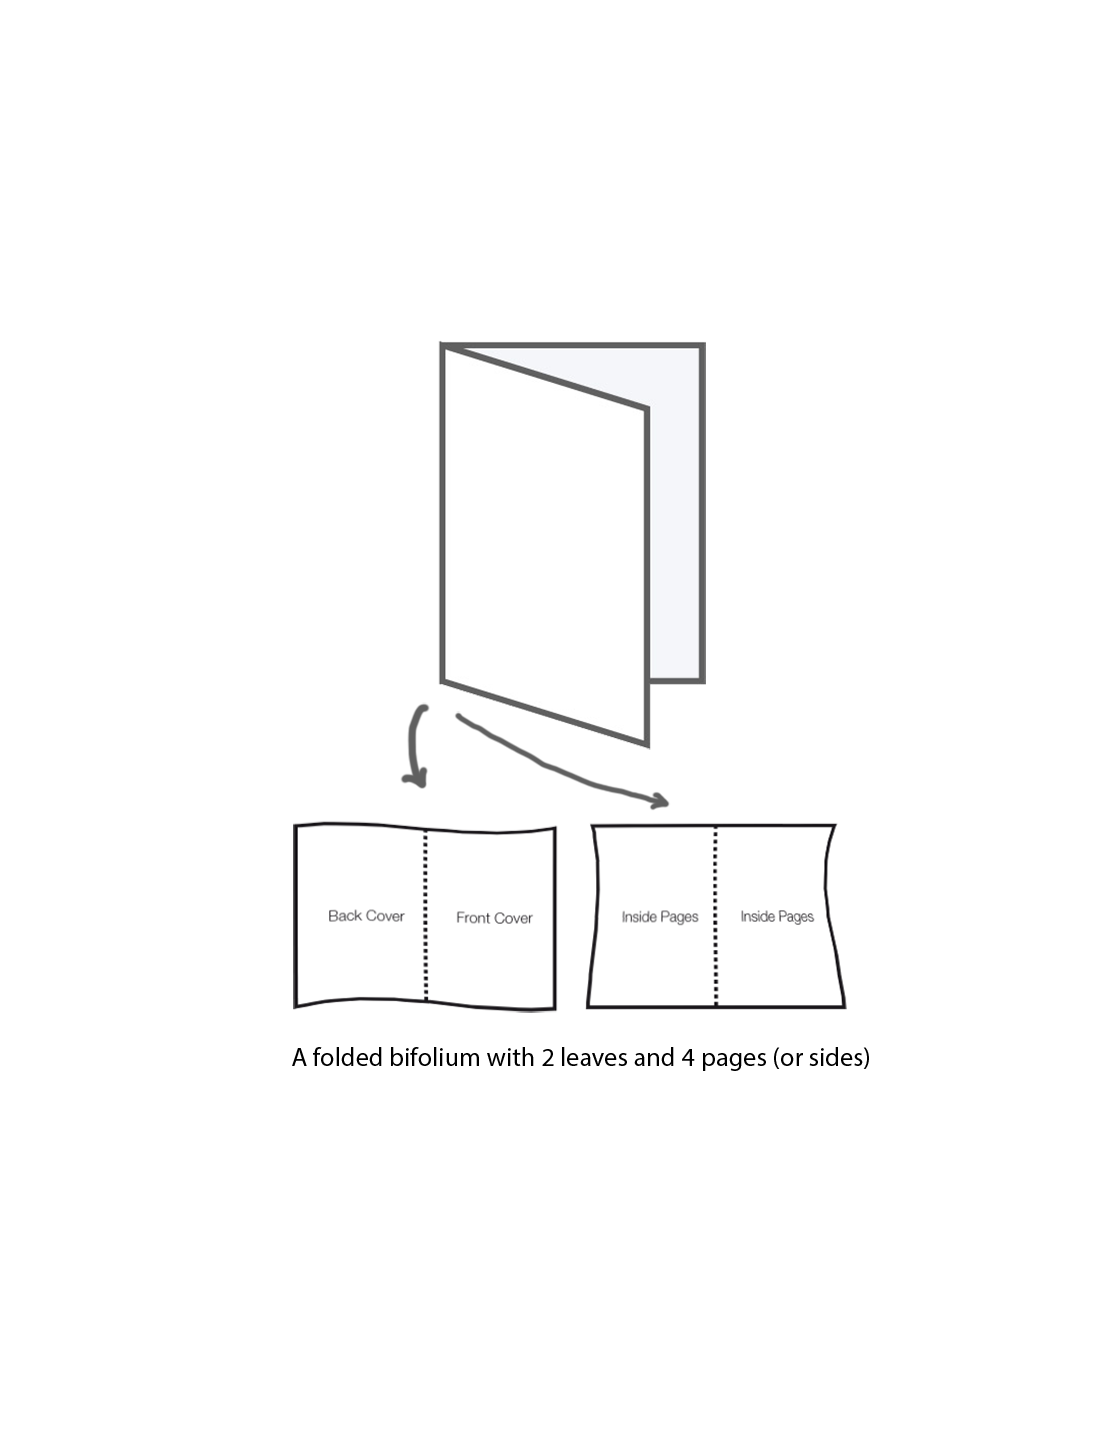
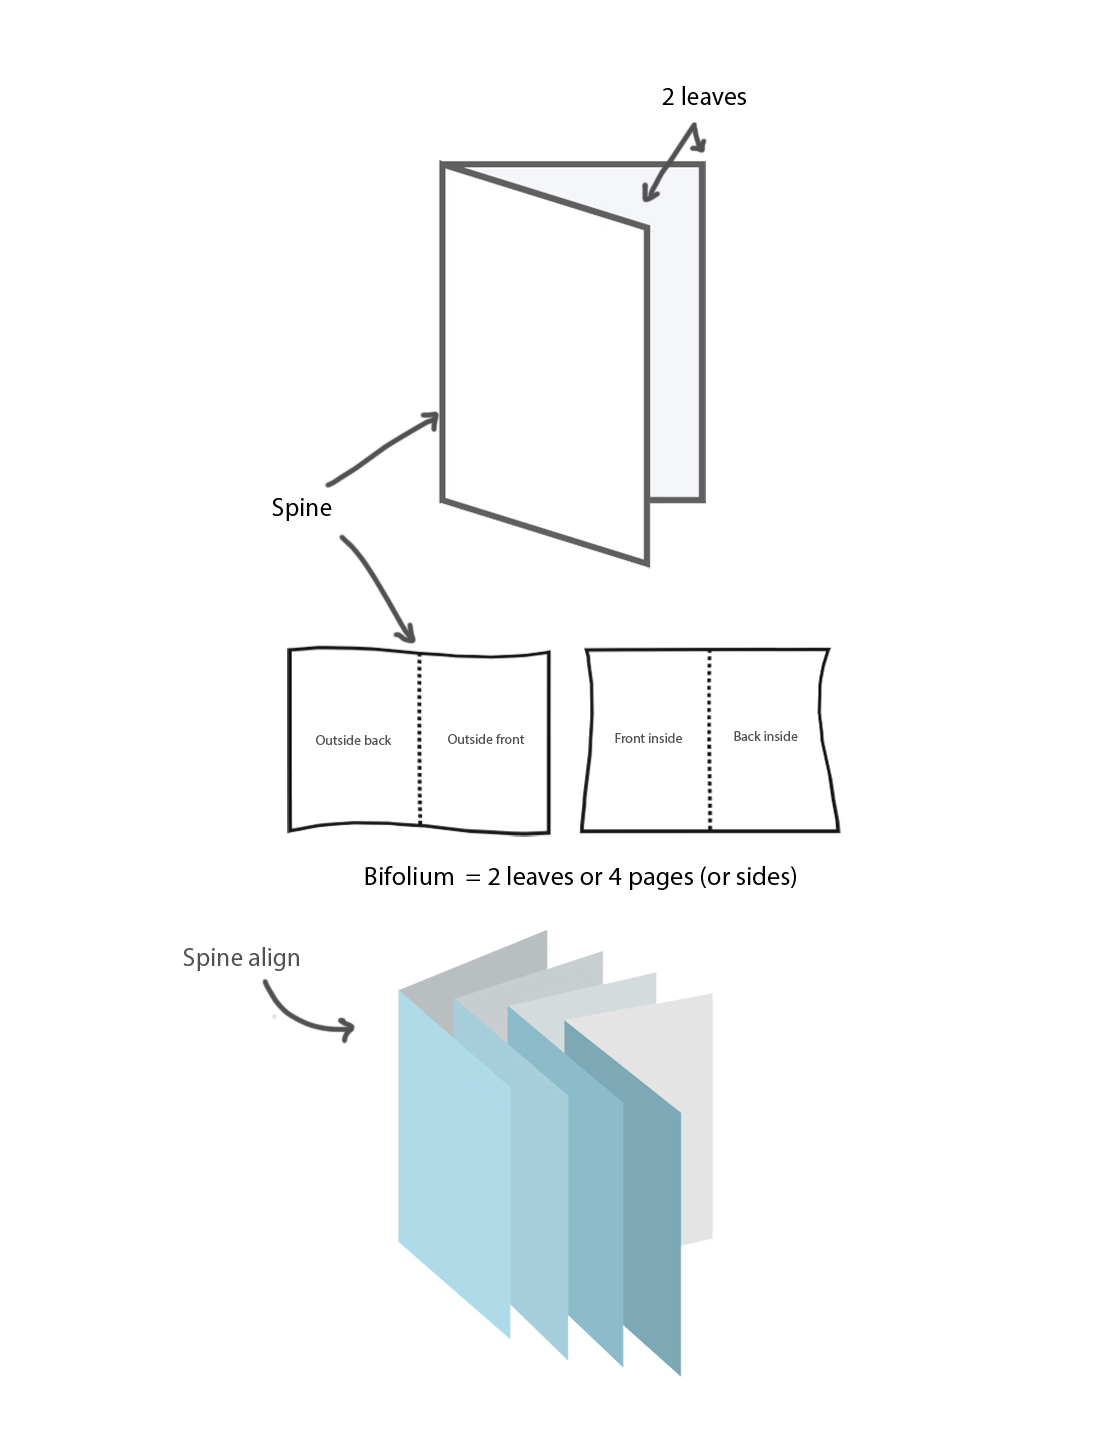
updating bifolium explanation image

diff --git a/manuscript/page-36/body.html b/manuscript/page-36/body.html
@@ -1,0 +1,11 @@
+<div class="leaf ">
+  <div class="inner justify ">
+    <h1> Add / Remove Pages</h1>
+    <p> Adding pages to a book on Bubblin is very easy but a unique concept. It is important to understand something here that is true for any book out there: </p>
+    <p> All books have even number of pages. </p>
+    <p> No matter how thick or thin the book (or magazine) is, no matter how many leaves it has, a book will always have even number of pages. Consider this: each leaf has two sides — front & back — and therefore a book with say 15 leaves will have 30 pages,
+      counting both sides in. </p>
+    <img src="https://raw.githubusercontent.com/bubblin/Official-Handbook/master/images/bifolia-dotted-spine.jpg" width="100%" />
+    <p>Leaves are also generally folded into a bifolium, with an edge that binds to the spine (shown overleaf) of the book. On Bubblin we consider adding pages akin to adding one leaf at a time i.e. two sides/pages. </p>
+  </div>
+</div>

diff --git a/manuscript/page-37/style.css b/manuscript/page-37/style.css
@@ -1,0 +1,14 @@
+body {
+  margin: 0 0;
+  overflow: hidden;
+  background-image: url(//raw.githubusercontent.com/bubblin/Official-Handbook/master/images/bifolium.png);
+  background-repeat: no-repeat;
+  background-size: 100% 100%;
+  height: 100vh;
+  width: 100vw;
+}
+
+img {
+  border: 0;
+  -ms-interpolation-mode: bicubic;
+}
